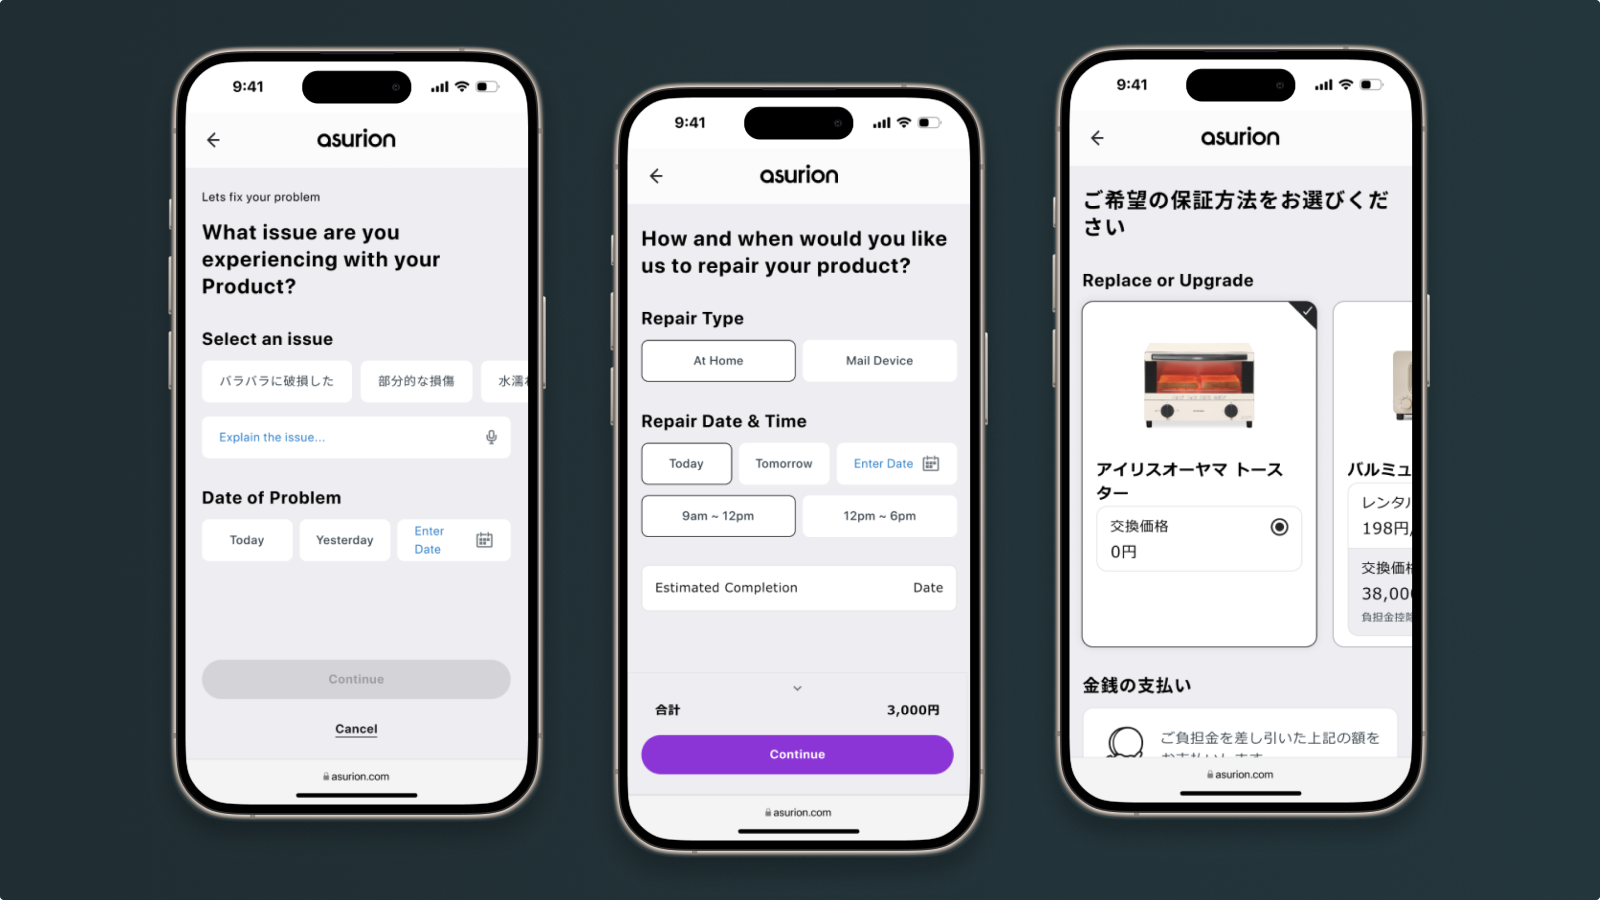
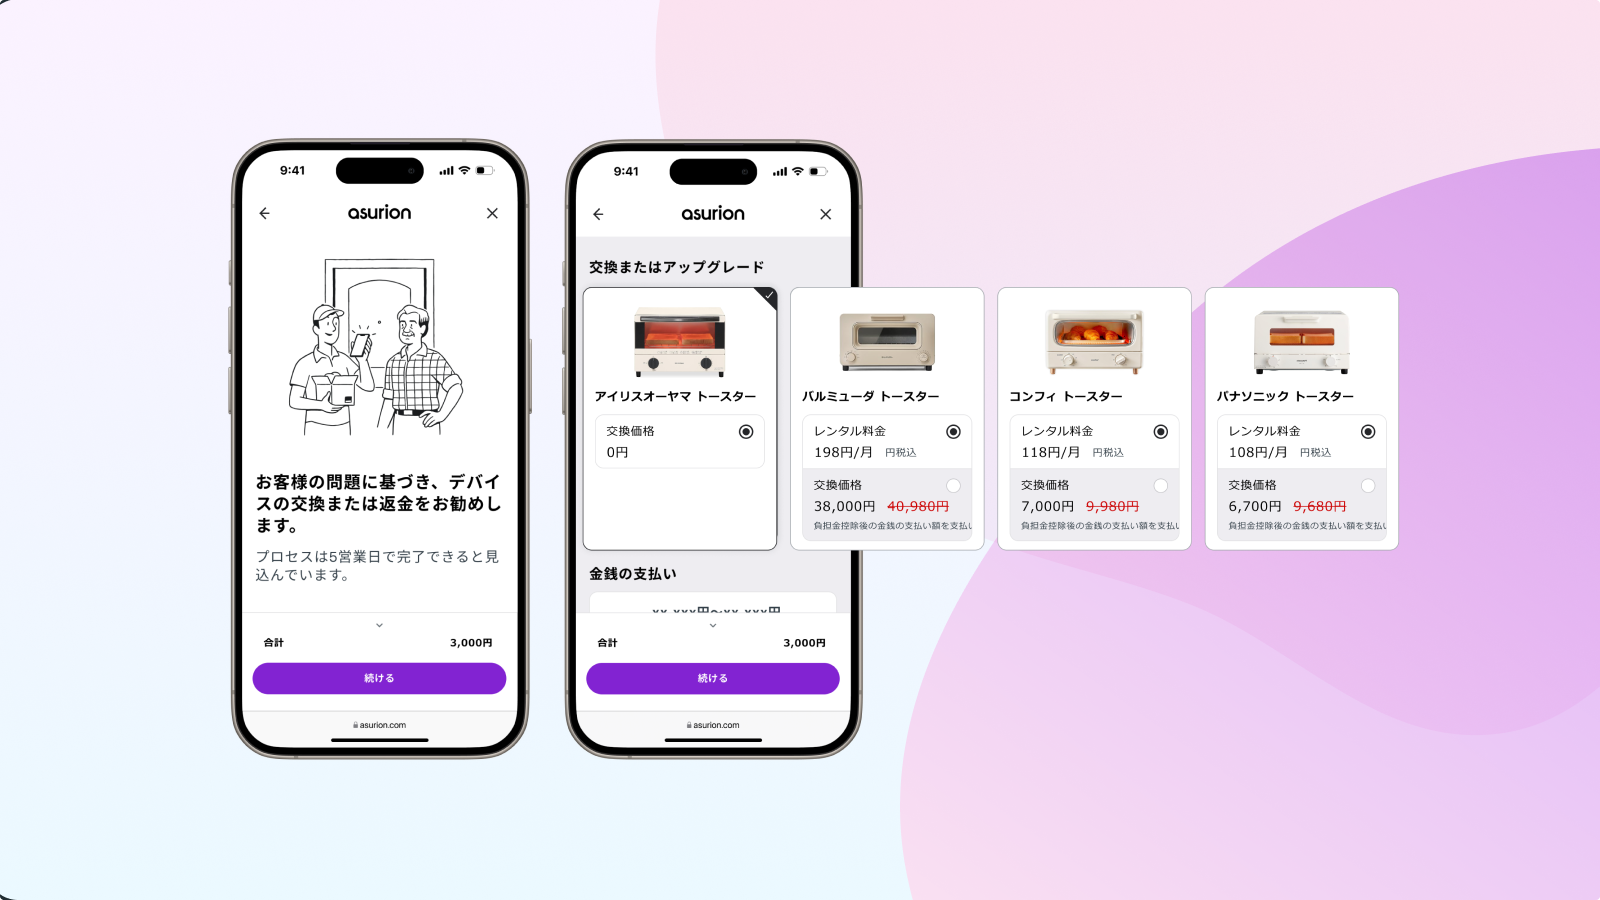
lll

diff --git a/pages/casestudy/research-improvement/index.html b/pages/casestudy/research-improvement/index.html
@@ -69,7 +69,7 @@
                             <span class="slide img" style="background-image: url(/assets/img/case-claim-repair-flow.png);"></span>
                             <span class="slide img" style="background-image: url(/assets/img/case-claim-replace-flow.png);"></span>
                         </div>
-                        <div class="indicators"></div>
+                        <div class="indicators dark"></div>
                     </div>
                 </div>
             </div>
@@ -124,7 +124,7 @@
                             <span class="slide img" style="background-image: url(/assets/img/case-claim-service-enrollment.png);"></span>
                             <span class="slide img" style="background-image: url(/assets/img/case-claim-service-enrollment2.png);"></span>
                         </div>
-                        <div class="indicators"></div>
+                        <div class="indicators dark"></div>
                     </div>
                 </div>
             </div>
@@ -241,7 +241,7 @@
                           <span class="slide img" style="background-image: url(/assets/img/case-claim-problem-flow.png);"></span>
                           <span class="slide img" style="background-image: url(/assets/img/case-claim-freetext-flow.png);"></span>
                         </div>
-                     <div class="indicators"></div>
+                     <div class="indicators dark"></div>
                     </div>
                 </div>
             </div>
@@ -253,7 +253,7 @@
                     <div class="carousel">
                         <span class="slide img" style="background-image: url(/assets/img/case-claim-repair-flow.png);"></span>
                     </div>
-                    <div class="indicators"></div>
+                    <div class="indicators dark"></div>
                 </div>
             </div> 
             <div class="col2 col">
@@ -275,7 +275,7 @@
                         <span class="slide img" style="background-image: url(/assets/img/case-claim-replace-flow.png);"></span>
                         <span class="slide img" style="background-image: url(/assets/img/case-claim-replace-desktop.png);"></span>
                     </div>
-                    <div class="indicators"></div>
+                    <div class="indicators dark"></div>
                 </div>
             </div>
         </div> 
